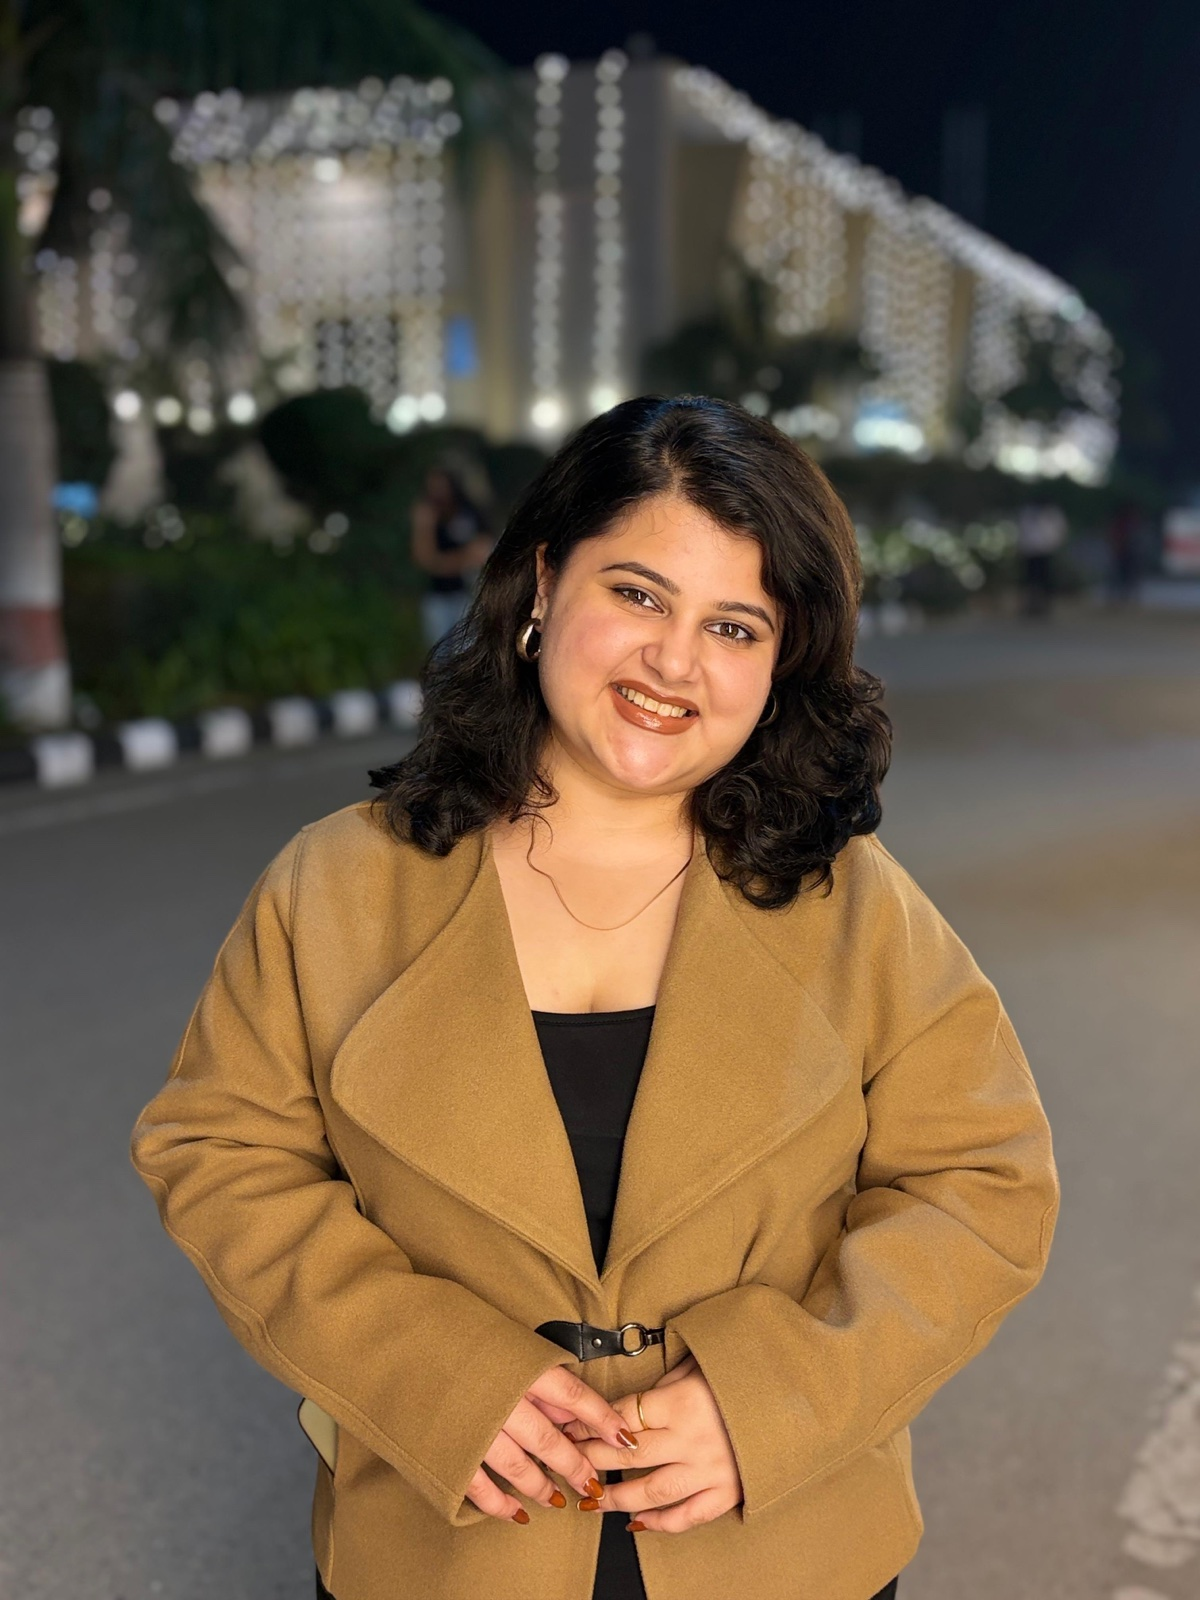
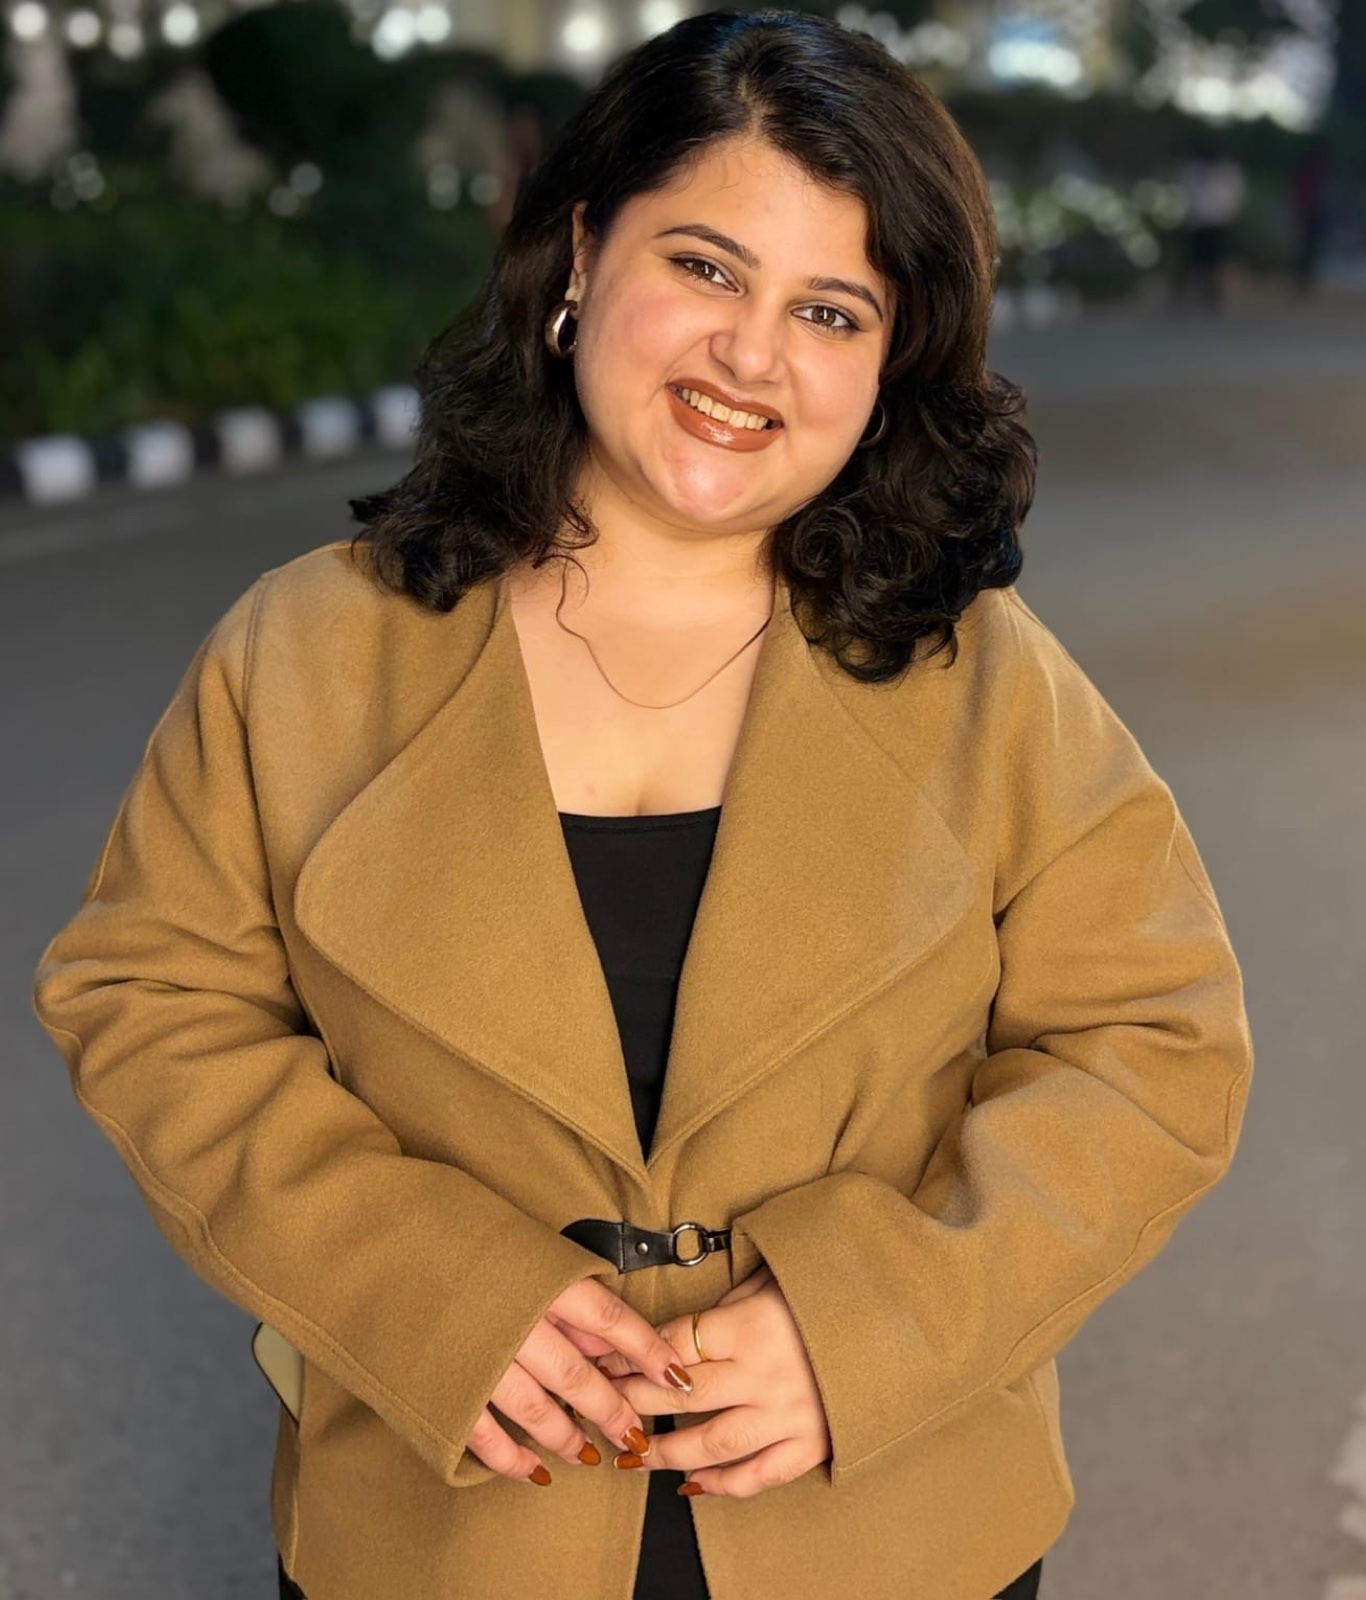
new profile photo; rename Expertise to Experience; HR & Management card

diff --git a/kashish-portfolio/src/components/Hero.jsx b/kashish-portfolio/src/components/Hero.jsx
@@ -130,7 +130,7 @@ export default function Hero() {
                                 alt="Kashish Oberoi"
                                 className="w-full h-full object-cover"
                                 style={{
-                                    objectPosition: 'center 30%',
+                                    objectPosition: 'center 20%',
                                     filter: 'contrast(1.08) brightness(0.96) saturate(0.85)',
                                 }}
                                 loading="eager"

diff --git a/kashish-portfolio/src/components/Skills.jsx b/kashish-portfolio/src/components/Skills.jsx
@@ -43,7 +43,7 @@ export default function Skills() {
                 <div className="h-px bg-accent-bronze/40 w-10" />
             </div>
             <h2 className="skills-label font-serif text-[36px] sm:text-[42px] md:text-[50px] lg:text-[58px] tracking-[-0.02em] text-text-primary leading-[1.05] mb-16 sm:mb-20">
-                Expertise
+                Experience
             </h2>
 
             <div className="grid grid-cols-1 md:grid-cols-2 lg:grid-cols-3 gap-14 lg:gap-16 max-w-5xl">

diff --git a/kashish-portfolio/src/components/About.jsx b/kashish-portfolio/src/components/About.jsx
@@ -6,7 +6,7 @@ import { motion, useInView } from 'framer-motion';
 gsap.registerPlugin(ScrollTrigger);
 
 const stats = [
-    { value: 0, suffix: "", label: "Areas of Experience", display: "HR" },
+    { value: 0, suffix: "", label: "Areas of Experience", display: "HR & Management" },
     { value: 0, suffix: "", label: "Salesforce Certified", display: "CRM" }
 ];
 

diff --git a/kashish-portfolio/src/components/Navigation.jsx b/kashish-portfolio/src/components/Navigation.jsx
@@ -6,7 +6,7 @@ const LINKS = [
     { name: 'About', href: '#about' },
     { name: 'Work', href: '#services' },
     { name: 'Insights', href: '#case-studies' },
-    { name: 'Expertise', href: '#command-center' },
+    { name: 'Experience', href: '#command-center' },
 ];
 
 export default function Navigation() {
